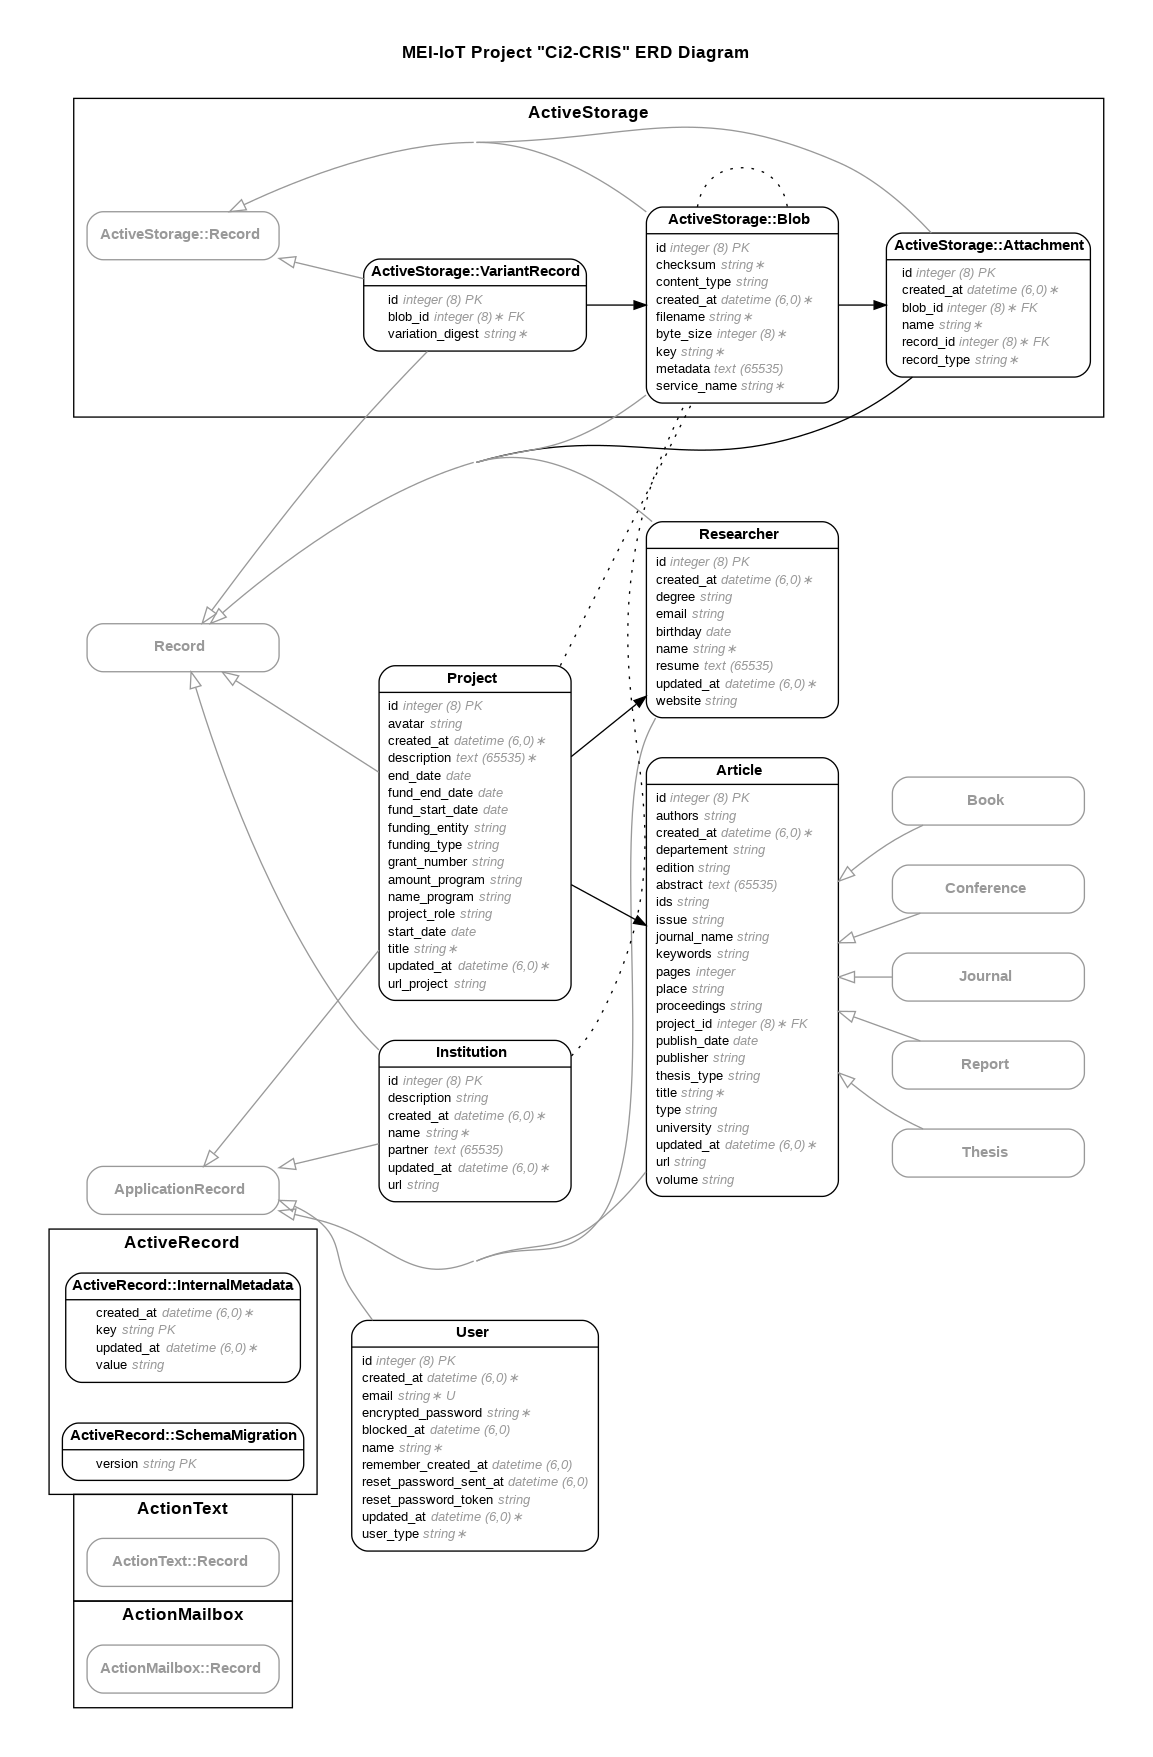
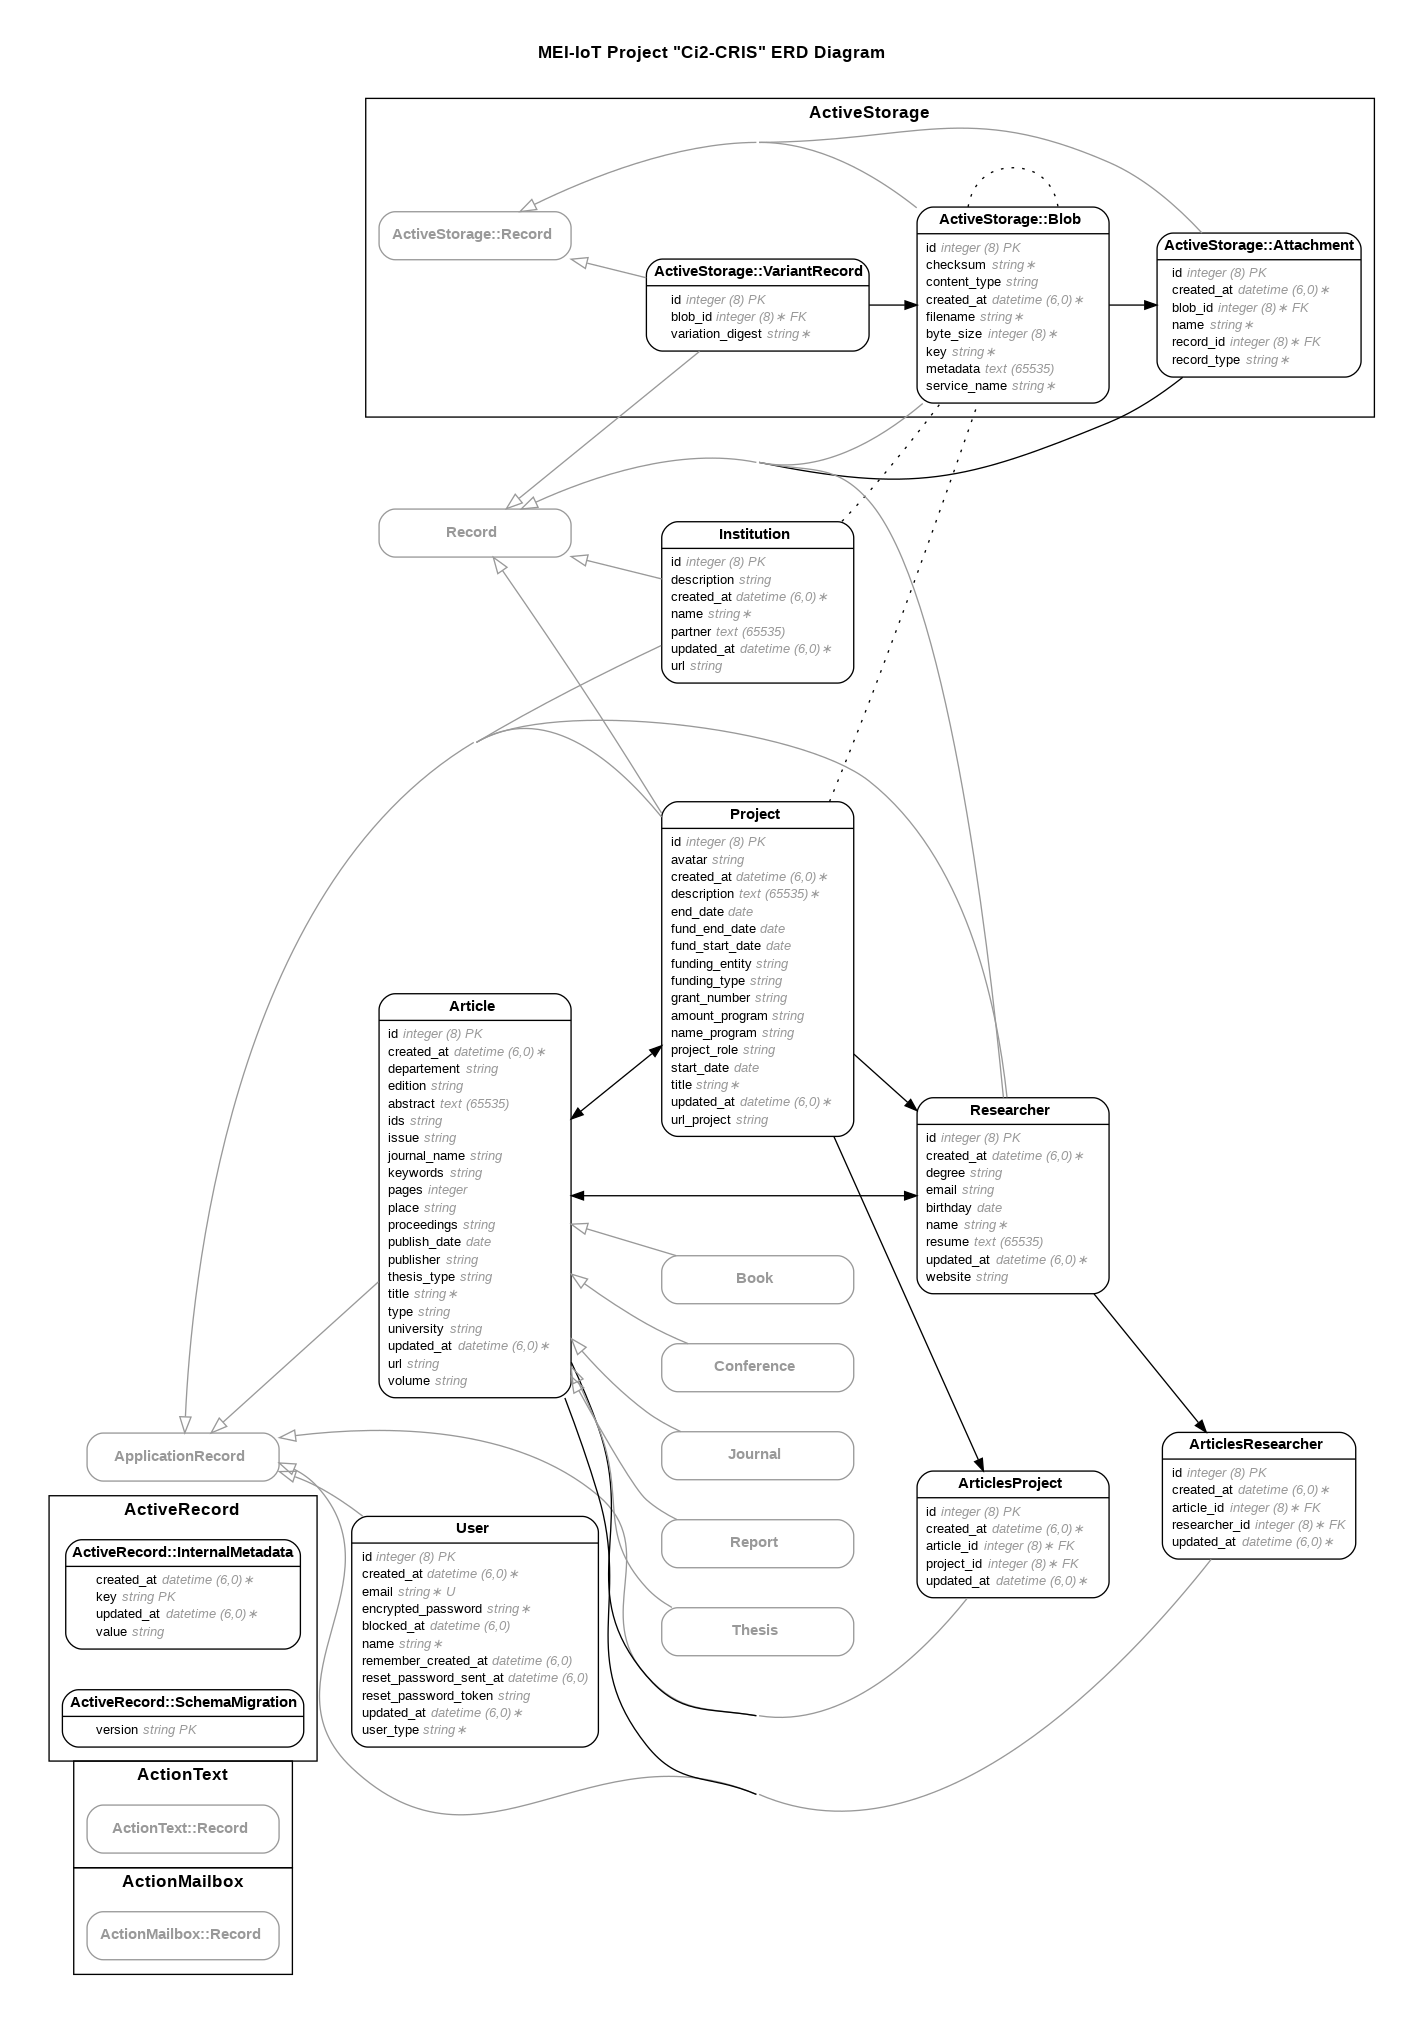
ci2-cris-22: article project association (m-n) (#79)
* Created association between articles and projects

* added missing reference

* Created radio buttons, corrected errors

* Articles now can be associated with many articles on creation. Corrected error on redirection on articles#create

* Commiting files that where wrongfully unversioned

* Commiting files that where wrongfully unversioned

* Now possible to edit projects associated to an article

* Added references on main page, added articles reference on projects, cleaned conde

* Added seeds that include project-article references

* Reference between article and projects, changed forms to have multiple select drop-downs. Removed Author column from article

* Added reference to articles from researcher screen. Changed article edit form to set associations with check-boxes

* Added relations between articles and researchers to seeds file

* Untracked ide files. Cleaned byebugs

diff --git a/1_src/db/seeds.rb b/1_src/db/seeds.rb
@@ -5,10 +5,10 @@
 #
 #   movies = Movie.create([{ name: "Star Wars" }, { name: "Lord of the Rings" }])
 #   Character.create(name: "Luke", movie: movies.first)
-projects = Project.create(title: "First Project", description: "O projeto EcoModZHC consiste numa de Prova de Conceito, em que se pretende implementar um protótipo de Zona Húmida Construída para demonstrar a efetividade de recuperação de águas residuais urbanas e industriais através de sistemas modulares, fomentar a economia circular da água e de resíduos e subprodutos sólidos industriais, e proceder à divulgação desta tecnologia mais verde e sustentável de tratamento de águas residuais no tecido industrial da Região. O protótipo a construir, instalar e operar, irá incluir duas vertentes inovadoras neste tipo de instalação de tratamento de águas residuais: (i) A monitorização remota, constante e em tempo real, do funcionamento da instalação e dos parâmetros de desempenho e de qualidade da água tratada; (ii) A autonomia energética da instalação, através de sistemas de energia renovável.", start_date: "14/01/2023", end_date: "", project_role: "", url_project: "www.ipt.pt")
-projects = Project.create(title: "Second Project", description: "For testing Second project rails", start_date: "14/01/2023", end_date: "", project_role: "", url_project: "www.ipt.pt")
-projects = Project.create(title: "Third Project", description: "For testing Third project rails", start_date: "14/01/2023", end_date: "", project_role: "", url_project: "www.ipt.pt")
-projects = Project.create(title: "Fourth Project", description: "For testing Fourth project rails", start_date: "14/01/2023", end_date: "", project_role: "", url_project: "www.ipt.pt")
+project1 = Project.create(title: "First Project", description: "O projeto EcoModZHC consiste numa de Prova de Conceito, em que se pretende implementar um protótipo de Zona Húmida Construída para demonstrar a efetividade de recuperação de águas residuais urbanas e industriais através de sistemas modulares, fomentar a economia circular da água e de resíduos e subprodutos sólidos industriais, e proceder à divulgação desta tecnologia mais verde e sustentável de tratamento de águas residuais no tecido industrial da Região. O protótipo a construir, instalar e operar, irá incluir duas vertentes inovadoras neste tipo de instalação de tratamento de águas residuais: (i) A monitorização remota, constante e em tempo real, do funcionamento da instalação e dos parâmetros de desempenho e de qualidade da água tratada; (ii) A autonomia energética da instalação, através de sistemas de energia renovável.", start_date: "14/01/2023", end_date: "", project_role: "", url_project: "www.ipt.pt")
+project2 = Project.create(title: "Second Project", description: "For testing Second project rails", start_date: "14/01/2023", end_date: "", project_role: "", url_project: "www.ipt.pt")
+project3 = Project.create(title: "Third Project", description: "For testing Third project rails", start_date: "14/01/2023", end_date: "", project_role: "", url_project: "www.ipt.pt")
+project4 = Project.create(title: "Fourth Project", description: "For testing Fourth project rails", start_date: "14/01/2023", end_date: "", project_role: "", url_project: "www.ipt.pt")
 researchers = Researcher.create(name: "Rui Paiva", birthday: "23/08/1988", resume: "teste", email: "rui.paiva88@gmail.com", website: "www.rpx.pt", degree: "Licenciatura")
 User.create([
     { user_type: "admin", name: "Admin", email: "admin@app.com", password: "password" },
@@ -17,58 +17,90 @@ User.create([
     { user_type: "superadmin", name: "Shoaib Feda", email: "almarghulani@gmail.com", password: "password" }
 ]);
 
-book = Book.create([
-                     {
+book1 = Article.create(
                        title: "Cozer batatas: scientific review",
                        abstract: "Uma análise científica sobre o contexto físico da cosedura de batatas",
                        edition: "First edition",
-                       publisher: "Porto editora"
-                     },
-                     {
-                       title: "Teoria da humidade",
-                       abstract: "O que é de facto a humidade???",
-                       edition: "thirtieth edition",
-                       publisher: "Vairão editora"
-                     }
-                   ])
+                       publisher: "Porto editora",
+                       type:"Book"
+                    )
 
-journal = Journal.create([
-                           {
+book2 = Article.create(
+                         title: "Teoria da humidade",
+                         abstract: "O que é de facto a humidade???",
+                         edition: "thirtieth edition",
+                         publisher: "Vairão editora",
+                         type: "Book"
+                       )
+
+journal1 = Article.create(
                              title: "News urgentes",
                              abstract: "Acontecimentos jornalísticos",
-                             journal_name: "Correio da tardinha"
-                           },
-                           {
-                             title: "Eletro geek",
-                             abstract: "All about rails geeks and their techniques",
-                             journal_name: "Correio da manhã"
-                           }
-                         ])
+                             journal_name: "Correio da tardinha",
+                             type: "Journal"
+                          )
+journal2 = Article.create(
+                            title: "Eletro geek",
+                            abstract: "All about rails geeks and their techniques",
+                            journal_name: "Correio da manhã",
+                            type: "Journal"
+                          )
 
-report = Report.create([
-                         {
+report1 = Article.create(
                            title: "Report sobre uma coisa",
                            abstract: "Super interessanteeeeeeeee",
-                         },
-                         {
-                           title: "Sapos: report",
-                           abstract: "One frog, two frogs, three fr...",
-                         }
-                       ])
+                           type: "Report"
+                    )
 
-thesis = Thesis.create([
-                         {
+report2 = Article.create(title: "Sapos: report",
+                         abstract: "One frog, two frogs, three fr...",
+                         type: "Report"
+)
+thesis1 = Article.create(
                            title: "O porquê do grupo ci2-cris tirar boa nota",
                            abstract: "Tese de mestrado para obtenção do nível académico mestrado",
                            thesis_type: "Masters",
-                           university:"Da vida"
-                         },
-                         {
-                           title: "Fobias: Ar e VR",
-                           abstract: "Mais que apps, um trabalho de uma vida",
-                           thesis_type: "Bachelors",
-                           university:"IPT"
-                         }
-                       ])
+                           university:"Da vida",
+                           type: "Thesis"
+)
 
+researcher1 = Researcher.create(
+  name: "Abílio Constâncio"
+)
 
+researcher2 = Researcher.create(
+  name: "Jaquistinácio das Dores"
+)
+
+researcher3 = Researcher.create(
+  name: "Albertino Constantino"
+)
+
+researcher4 = Researcher.create(
+  name: "José Pinhal"
+)
+
+thesis2 = Article.create(
+  title: "Fobias: Ar e VR",
+  abstract: "Mais que apps, um trabalho de uma vida",
+  thesis_type: "Bachelors",
+  university:"IPT",
+  type: "Thesis"
+)
+journal1.project_ids = [project3.id]
+book1.project_ids = [project2.id, project4.id]
+book2.project_ids = [project4.id]
+journal2.project_ids = [project3.id, project1.id]
+report1.project_ids = [project1.id, project3.id, project2.id]
+report2.project_ids = [project1.id, project2.id]
+thesis1.project_ids = [project4.id, project3.id, project2.id, project1.id]
+thesis2.project_ids = [project4.id]
+
+journal1.researcher_ids = [researcher1.id]
+book1.researcher_ids = [researcher1.id, researcher2.id]
+book2.researcher_ids = [researcher3.id, researcher2.id]
+journal2.researcher_ids = [researcher4.id, researcher2.id, researcher3.id]
+report1.researcher_ids = [researcher2.id]
+report2.researcher_ids = [researcher4.id, researcher3.id]
+thesis1.researcher_ids = [researcher4.id]
+thesis2.researcher_ids = [researcher4.id, researcher2.id,researcher1.id, researcher3.id]

diff --git a/1_src/app/controllers/articles_controller.rb b/1_src/app/controllers/articles_controller.rb
@@ -2,8 +2,6 @@ class ArticlesController < ApplicationController
   #before_action :authenticate_user!, :except => [:index, :show, :listSelect]
   def index
     @articles = Article.all
-    @projects = Project.all
-
   end
 
   def listSelect
@@ -11,11 +9,13 @@ class ArticlesController < ApplicationController
   end
 
   def create
-
     @article = Article.new(getParamsCreate(params[:article][:type]))
-    #byebug
+
+      associateProjectsToArticle(params[:project_ids])
+      associateResearchersToArticle(params[:researcher_ids])
     if @article.save
-      redirect_to "articles#index"
+
+      redirect_to articles_url
     else
       render :new, status: :unprocessable_entity
     end
@@ -34,14 +34,24 @@ class ArticlesController < ApplicationController
   end
 
   def update
+
     @article = Article.find(params[:id])
 
+    ids = params[:project_ids]
+
+    if(ids.length != 0)
+      @article.projects.clear
+      associateProjectsToArticle(ids)
+    end
+
+
+
     if @article.update(getParamsEdit(@article.type))
-      redirect_to root_path
+      redirect_to article_url
     else
       render :edit, status:  :unprocessable_entity
+    end
   end
-end
 
   def destroy
     @article = Article.find(params[:id])
@@ -52,8 +62,23 @@ end
 
   private
 
+  def associateProjectsToArticle(ids)
+    ids.each do |id|
+      unless id.to_s.strip.empty?
+        @article.projects << Project.find(id)
+      end
+    end
+  end
+
+  def associateResearchersToArticle(ids)
+    ids.each do |id|
+      unless id.to_s.strip.empty?
+        @article.researchers << Researcher.find(id)
+      end
+    end
+  end
+
   def getParamsCreate(type)
-    byebug
     case type
     when 'Book'
       return book_params
@@ -114,19 +139,19 @@ end
   end
 
   def conference_params
-    params.require(:article).permit(:title, :abstract, :authors, :publish_date, :pages, :keywords, :url, :ids, :project_id, :proceedings, :place, :type)
+    params.require(:article).permit(:title, :abstract, :authors, :publish_date, :pages, :keywords, :url, :ids, :proceedings, :place, :type)
   end
 
   def book_params
-    params.require(:article).permit(:title, :abstract, :authors, :publish_date, :pages, :keywords, :url, :ids, :project_id, :edition, :publisher, :type)
+    params.require(:article).permit(:title, :abstract, :authors, :publish_date, :pages, :keywords, :url, :ids, :edition, :publisher, :type)
   end
 
   def journal_params
-    params.require(:article).permit(:title, :abstract, :authors, :publish_date, :pages, :keywords, :url, :ids, :project_id, :journal_name, :type)
+    params.require(:article).permit(:title, :abstract, :authors, :publish_date, :pages, :keywords, :url, :ids, :journal_name, :type)
   end
 
   def thesis_params
-    params.require(:article).permit(:title, :abstract, :authors, :publish_date, :pages, :keywords, :url, :ids, :project_id, :university, :thesis_type, :type)
+    params.require(:article).permit(:title, :abstract, :authors, :publish_date, :pages, :keywords, :url, :ids,  :university, :thesis_type, :type)
   end
 
 end

diff --git a/1_src/db/schema.rb b/1_src/db/schema.rb
@@ -10,7 +10,7 @@
 #
 # It's strongly recommended that you check this file into your version control system.
 
-ActiveRecord::Schema[7.0].define(version: 2023_01_28_171544) do
+ActiveRecord::Schema[7.0].define(version: 2023_02_05_174258) do
   create_table "active_storage_attachments", charset: "utf8mb4", force: :cascade do |t|
     t.string "name", null: false
     t.string "record_type", null: false
@@ -41,7 +41,6 @@ ActiveRecord::Schema[7.0].define(version: 2023_01_28_171544) do
 
   create_table "articles", charset: "utf8mb4", force: :cascade do |t|
     t.string "title"
-    t.string "authors"
     t.date "publish_date"
     t.integer "pages"
     t.text "abstract"
@@ -61,8 +60,24 @@ ActiveRecord::Schema[7.0].define(version: 2023_01_28_171544) do
     t.string "thesis_type"
     t.datetime "created_at", null: false
     t.datetime "updated_at", null: false
+  end
+
+  create_table "articles_projects", charset: "utf8mb4", force: :cascade do |t|
     t.bigint "project_id", null: false
-    t.index ["project_id"], name: "index_articles_on_project_id"
+    t.bigint "article_id", null: false
+    t.datetime "created_at", null: false
+    t.datetime "updated_at", null: false
+    t.index ["article_id"], name: "index_articles_projects_on_article_id"
+    t.index ["project_id"], name: "index_articles_projects_on_project_id"
+  end
+
+  create_table "articles_researchers", charset: "utf8mb4", force: :cascade do |t|
+    t.bigint "article_id", null: false
+    t.bigint "researcher_id", null: false
+    t.datetime "created_at", null: false
+    t.datetime "updated_at", null: false
+    t.index ["article_id"], name: "index_articles_researchers_on_article_id"
+    t.index ["researcher_id"], name: "index_articles_researchers_on_researcher_id"
   end
 
   create_table "institutions", charset: "utf8mb4", force: :cascade do |t|
@@ -121,4 +136,8 @@ ActiveRecord::Schema[7.0].define(version: 2023_01_28_171544) do
 
   add_foreign_key "active_storage_attachments", "active_storage_blobs", column: "blob_id"
   add_foreign_key "active_storage_variant_records", "active_storage_blobs", column: "blob_id"
+  add_foreign_key "articles_projects", "articles"
+  add_foreign_key "articles_projects", "projects"
+  add_foreign_key "articles_researchers", "articles"
+  add_foreign_key "articles_researchers", "researchers"
 end

diff --git a/1_src/db/migrate/20230204212637_create_articles_projects.rb b/1_src/db/migrate/20230204212637_create_articles_projects.rb
@@ -1,0 +1,10 @@
+class CreateArticlesProjects < ActiveRecord::Migration[7.0]
+  def change
+    create_table :articles_projects do |t|
+      t.belongs_to :project, null: false, foreign_key: true
+      t.belongs_to :article, null: false, foreign_key: true
+
+      t.timestamps
+    end
+  end
+end

diff --git a/1_src/app/models/project.rb b/1_src/app/models/project.rb
@@ -4,4 +4,5 @@ class Project < ApplicationRecord
     validates :description, presence: true, length: { minimum: 10 }
     Project_role = ['Ongoing', 'Completed', 'Cancelled', 'Not funded']
     has_one_attached :avatar
+    has_and_belongs_to_many :articles
   end

diff --git a/1_src/app/models/article.rb b/1_src/app/models/article.rb
@@ -1,5 +1,6 @@
 class Article < ApplicationRecord
     validates :title, presence: true
     validates :abstract, length: {minimum: 15}
-    belongs_to :project
+    has_and_belongs_to_many :projects
+    has_and_belongs_to_many :researchers
 end

diff --git a/1_src/app/models/researcher.rb b/1_src/app/models/researcher.rb
@@ -2,5 +2,5 @@ class Researcher < ApplicationRecord
     validates :name, presence: true
     has_one_attached :avatar
     Degree = ['Licence', 'Master', 'Doctorate']
-
+    has_and_belongs_to_many :articles
 end 

diff --git a/1_src/test/models/articles_project_test.rb b/1_src/test/models/articles_project_test.rb
@@ -1,0 +1,7 @@
+require "test_helper"
+
+class ArticlesProjectTest < ActiveSupport::TestCase
+  # test "the truth" do
+  #   assert true
+  # end
+end

diff --git a/1_src/app/models/articles_project.rb b/1_src/app/models/articles_project.rb
@@ -1,0 +1,4 @@
+class ArticlesProject < ApplicationRecord
+  belongs_to :project
+  belongs_to :article
+end
